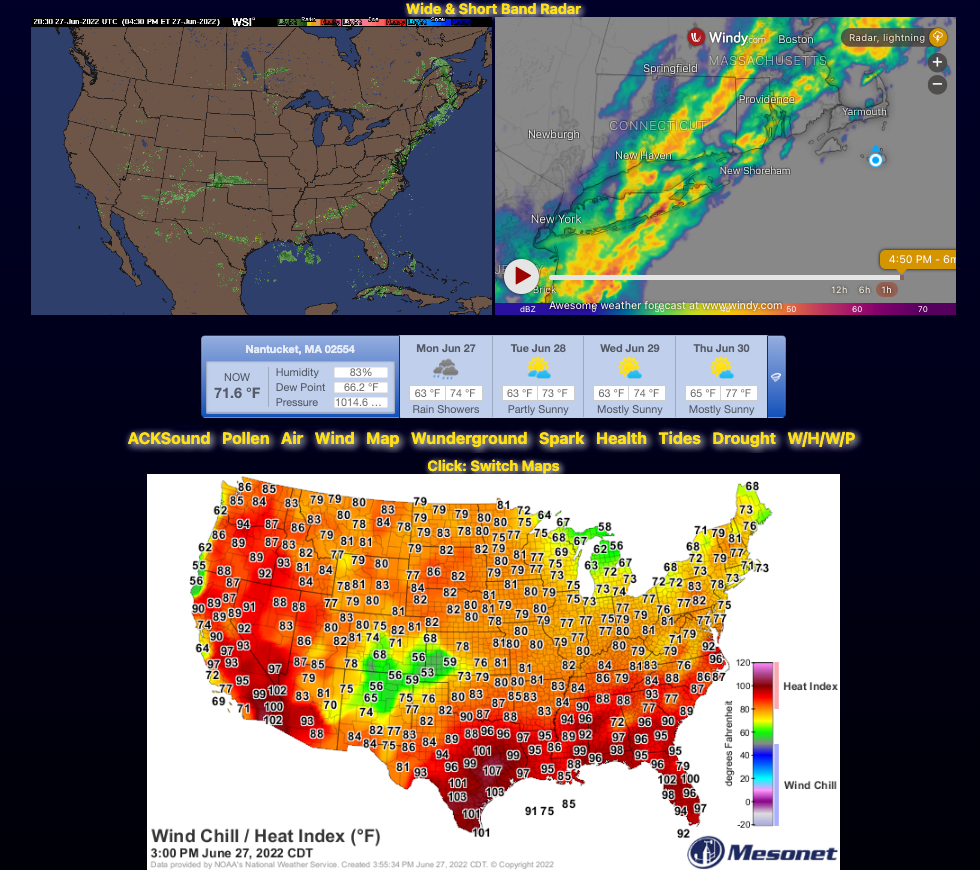
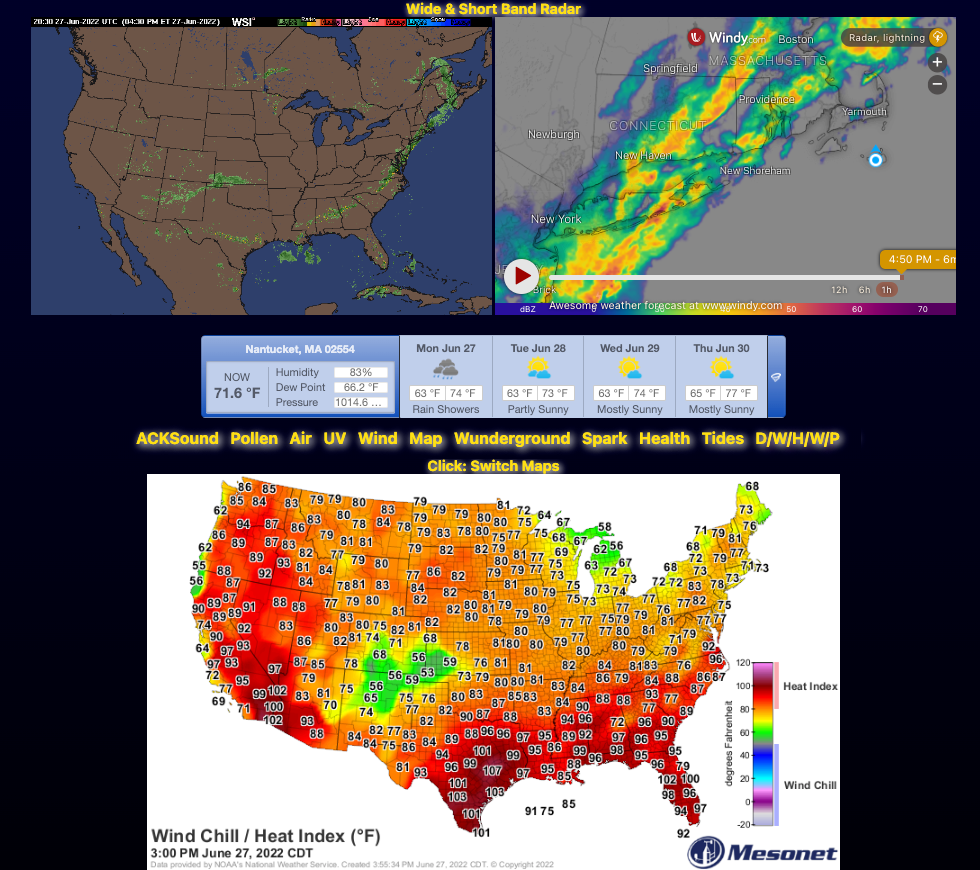
UV Rays
UV Weather added, Drought map moved to the side due to little use, and url targets added open in a new page.

Changed region(s): [[0.1224, 0.4966, 0.8878, 0.5276]]

diff --git a/weather.html b/weather.html
@@ -47,17 +47,17 @@
 	</span>
     <br>
 	<span style="display: inline-block; margin: 10px 0 15px 0">
-		<a title="Bouy Data from Nantucket Sound" href="http://www.ndbc.noaa.gov/station_page.php?station=44020">ACKSound</a>
-		 &nbsp; <a title="Pollen Levels" href="https://www.pollen.com/forecast/current/pollen/02554">Pollen</a> 
-		 &nbsp; <a title="Air Qaulity via AirNow.gov" href="https://www.airnow.gov/?city=Nantucket&state=MA&country=USA" target="_">Air</a>
-		 &nbsp; <a title="Wind Map" href="http://hint.fm/wind/">Wind</a> 
-                 &nbsp; <a title="Windy Map" href="https://www.windy.com/41.302/-70.117?40.522,-69.203,7,m:eNZaeej">Map</a>
-		 &nbsp; <a title="Wunderground Nantucket" href="https://www.wunderground.com/forecast/us/ma/nantucket/02554">Wunderground</a> 
-		 &nbsp; <a title="weather spark - track weather in detail over time" href="https://weatherspark.com/td/26821/Average-Weather-in-Nantucket-Massachusetts-United-States-Today">Spark</a>
-		 &nbsp; <a title="Health: Air qaulity, UV Index, etc" href="https://www.wunderground.com/health/KACK?cm_ven=localwx_modaq">Health</a>
-		 &nbsp; <a title="Nantucket Storm Tides" href="https://stormtides.org/">Tides</a>
-		 &nbsp; <a title="US Gov Drought Map" href="https://droughtmonitor.unl.edu/">Drought</a>
-		 &nbsp; <a title="Wind-Chill" href="http://hp2.wright-weather.com/icons/us_chill.gif">W</a>/<a title="Heat Map" target="_blank" href="https://vortex.plymouth.edu/mapwall/forecast/model_loop.html?model=HRRR&prod_name=2mt-na">H</a>/<a title="Wind Map" target="_blank" href="https://vortex.plymouth.edu/mapwall/forecast/model_loop.html?model=NAM&prod_name=850-na">W</a>/<a title="Marine Port Traffic Map" target="_blank" href="https://www.marinetraffic.com/en/ais/details/ports/669?name=NANTUCKET&country=USA">P</a>
+		<a title="Bouy Data from Nantucket Sound" target="_blank" href="http://www.ndbc.noaa.gov/station_page.php?station=44020">ACKSound</a>
+		 &nbsp; <a title="Pollen Levels" target="_blank" href="https://www.pollen.com/forecast/current/pollen/02554">Pollen</a> 
+		 &nbsp; <a title="Air Qaulity via AirNow.gov" target="_blank" href="https://www.airnow.gov/?city=Nantucket&state=MA&country=USA" target="_">Air</a>
+		 &nbsp; <a title="UV Forcast" target="_blank" href="https://www.willyweather.com/graphs.html?graph=outlook%3A3%2Clocation%3A149919%2Cseries%3Dorder%3A0%2Cid%3Asunrisesunset%2Ctype%3Aforecast%2Cseries%3Dorder%3A1%2Cid%3Auv%2Ctype%3Aforecast%2Cseries%3Dorder%3A4%2Cid%3Atemperature%2Ctype%3Aforecast%2Cstation%3A4244%2Cseries%3Dorder%3A2%2Cid%3Atemperature%2Cseries%3Dorder%3A3%2Cid%3Awind%2Cseries%3Dorder%3A5%2Cid%3Arainfall">UV</a>
+		 &nbsp; <a title="Wind Map" target="_blank" href="http://hint.fm/wind/">Wind</a> 
+         &nbsp; <a title="Windy Map" target="_blank" href="https://www.windy.com/41.302/-70.117?40.522,-69.203,7,m:eNZaeej">Map</a>
+		 &nbsp; <a title="Wunderground Nantucket" target="_blank" href="https://www.wunderground.com/forecast/us/ma/nantucket/02554">Wunderground</a> 
+		 &nbsp; <a title="weather spark - track weather in detail over time" target="_blank" href="https://weatherspark.com/td/26821/Average-Weather-in-Nantucket-Massachusetts-United-States-Today">Spark</a>
+		 &nbsp; <a title="Health: Air qaulity, UV Index, etc" target="_blank" href="https://www.wunderground.com/health/KACK?cm_ven=localwx_modaq">Health</a>
+		 &nbsp; <a title="Nantucket Storm Tides" target="_blank" href="https://stormtides.org/">Tides</a>
+		 &nbsp; <a title="US Gov Drought Map" target="_blank" href="https://droughtmonitor.unl.edu/">D</a>/<a title="Wind-Chill" target="_blank" href="http://hp2.wright-weather.com/icons/us_chill.gif">W</a>/<a title="Heat Map" target="_blank" href="https://vortex.plymouth.edu/mapwall/forecast/model_loop.html?model=HRRR&prod_name=2mt-na">H</a>/<a title="Wind Map" target="_blank" href="https://vortex.plymouth.edu/mapwall/forecast/model_loop.html?model=NAM&prod_name=850-na">W</a>/<a title="Marine Port Traffic Map" target="_blank" href="https://www.marinetraffic.com/en/ais/details/ports/669?name=NANTUCKET&country=USA">P</a>
         </span><br>
 	
 		<div> <!--Maps for Wind Chill-Heat <-> Relative Humidty -->

diff --git a/README.md b/README.md
@@ -5,7 +5,7 @@ Purpose:
 	A dedicated web-page that grabs and displays weather info and maps for Nantucket 
 	with Interactive Maps and widgets and links to Nantucket Sound Bouy Data, Wind Map,
     Pollen Levels, Drought, Wunderground Nantucket, WeatherSpark's tempature chart, 
-	Air Quality. Marine Traffic Map and more.
+	Air Quality, UV Forcast, Marine Traffic Map and more.
 
 <img src="https://github.com/xeoron/ackWeather/blob/master/images/sample.png?raw=true"/>
 
